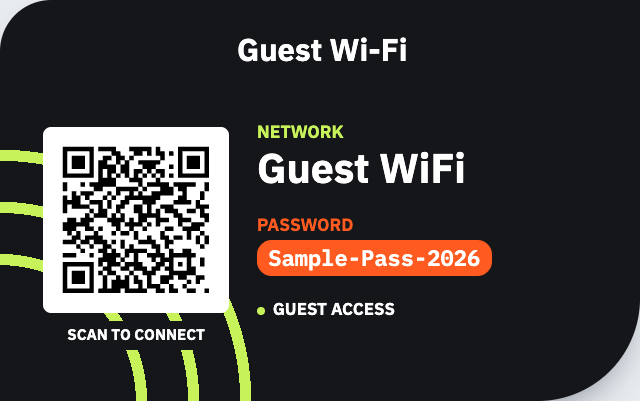
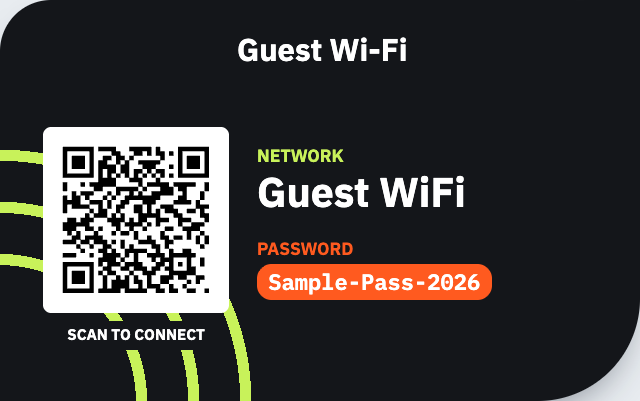
Make the footer line empty by default

Changed region(s): [[0.375, 0.2993, 0.7812, 0.808]]

diff --git a/index.html b/index.html
@@ -76,6 +76,7 @@ button:hover:not(:disabled){filter:brightness(1.06)}
 .k.pw{color:var(--c-a2)}
 .v{font-size:7cqi;font-weight:700;margin:0;line-height:1.25;overflow-wrap:anywhere}
 .v.pwv{font-family:"IBM Plex Mono",ui-monospace,Menlo,monospace;font-weight:600;justify-self:start;background:var(--c-a2);color:#fff;padding:.8cqi 2cqi;border-radius:2.6cqi;font-size:4.7cqi;white-space:nowrap}
+.card-foot:empty{display:none}
 .card-foot{font-size:2.9cqi;font-weight:700;margin-top:1cqi;display:flex;align-items:center;gap:1.4cqi}
 .card-foot::before{content:"";width:1.4cqi;height:1.4cqi;border-radius:50%;background:var(--c-a1)}
 .qr-wrap{grid-row:2;grid-column:1;align-self:end;display:grid;gap:1.4cqi;justify-items:center;position:relative;z-index:1}
@@ -175,7 +176,7 @@ footer{grid-column:1/-1;font-size:.8rem;color:var(--muted);text-align:center}
 
       <fieldset>
         <legend>カード表示</legend>
-        <label>左下の文字<input type="text" id="foot"></label>
+        <label>下部の一行（空なら非表示）<input type="text" id="foot" placeholder="例: Guest access only"></label>
         <label>ラベル
           <select id="lang">
             <option value="en">英語（NETWORK / PASSWORD）</option>
@@ -271,7 +272,7 @@ footer{grid-column:1/-1;font-size:.8rem;color:var(--muted);text-align:center}
   const $ = id => document.getElementById(id);
 
   /* ---------- 設定: 組み込み既定 ← config.js ← ブラウザ保存 ---------- */
-  const BUILTIN = { title:"WELCOME", logo:null, logoMode:"alpha", logoLayer:"white", qrLogo:false, ssid:"Guest WiFi", foot:"GUEST ACCESS",
+  const BUILTIN = { title:"WELCOME", logo:null, logoMode:"alpha", logoLayer:"white", qrLogo:false, ssid:"Guest WiFi", foot:"",
     lang:"en", frame:false, corner:true, colors:{base:"#14161A",white:"#FFFFFF",a1:"#C8F25A",a2:"#FF5A1F"} };
   const CFG = Object.assign({}, BUILTIN, window.WIFI_CARD_CONFIG||{});
   CFG.colors = Object.assign({}, BUILTIN.colors, (window.WIFI_CARD_CONFIG||{}).colors||{});

diff --git a/config.js b/config.js
@@ -6,7 +6,7 @@ window.WIFI_CARD_CONFIG = {
   logoMode: "alpha",               // "alpha" = 透過PNG/SVG、"light" = 白背景の画像
   logoLayer: "white",              // ロゴの色層: "white" / "a1" / "a2"
   ssid: "Guest WiFi",
-  foot: "GUEST ACCESS",
+  foot: "",                        // 下部の一行（空なら非表示）。例: "Guest access only"
   lang: "en",                      // ラベル: "en" / "ja"
   frame: false,                    // 外枠
   corner: true,                    // 右上のアクセント

diff --git a/README.md b/README.md
@@ -31,7 +31,7 @@ The images above use a dummy password (`Sample-Pass-2026`).
 - Card (150 × 94 mm by default) with a large rounded bottom-right corner and three concentric "signal" arcs radiating from the bottom-left corner. The QR code sits on the left; the SSID and the password (on a colored pill) are on the right.
 - Your logo (SVG/PNG, transparent or white background) or a built-in Wi-Fi icon, plus a heading such as your company name.
 - Four colors you can change: base, white, and two accents.
-- English or Japanese labels, an optional outer frame, optional signal arcs, and a footer text.
+- English or Japanese labels, an optional outer frame, optional signal arcs, and an optional one-line note at the bottom (empty by default).
 - Optional logo in the center of the QR code (your logo, or a Wi-Fi icon if none is set). It switches the QR to error correction level H and clears about 7% of the code area; it applies to the card, the 3D models, and the QR SVG/PNG downloads. Scan the result before you print or hand it out.
 - The password can be left off the card, so the QR code is the only way in.
 
